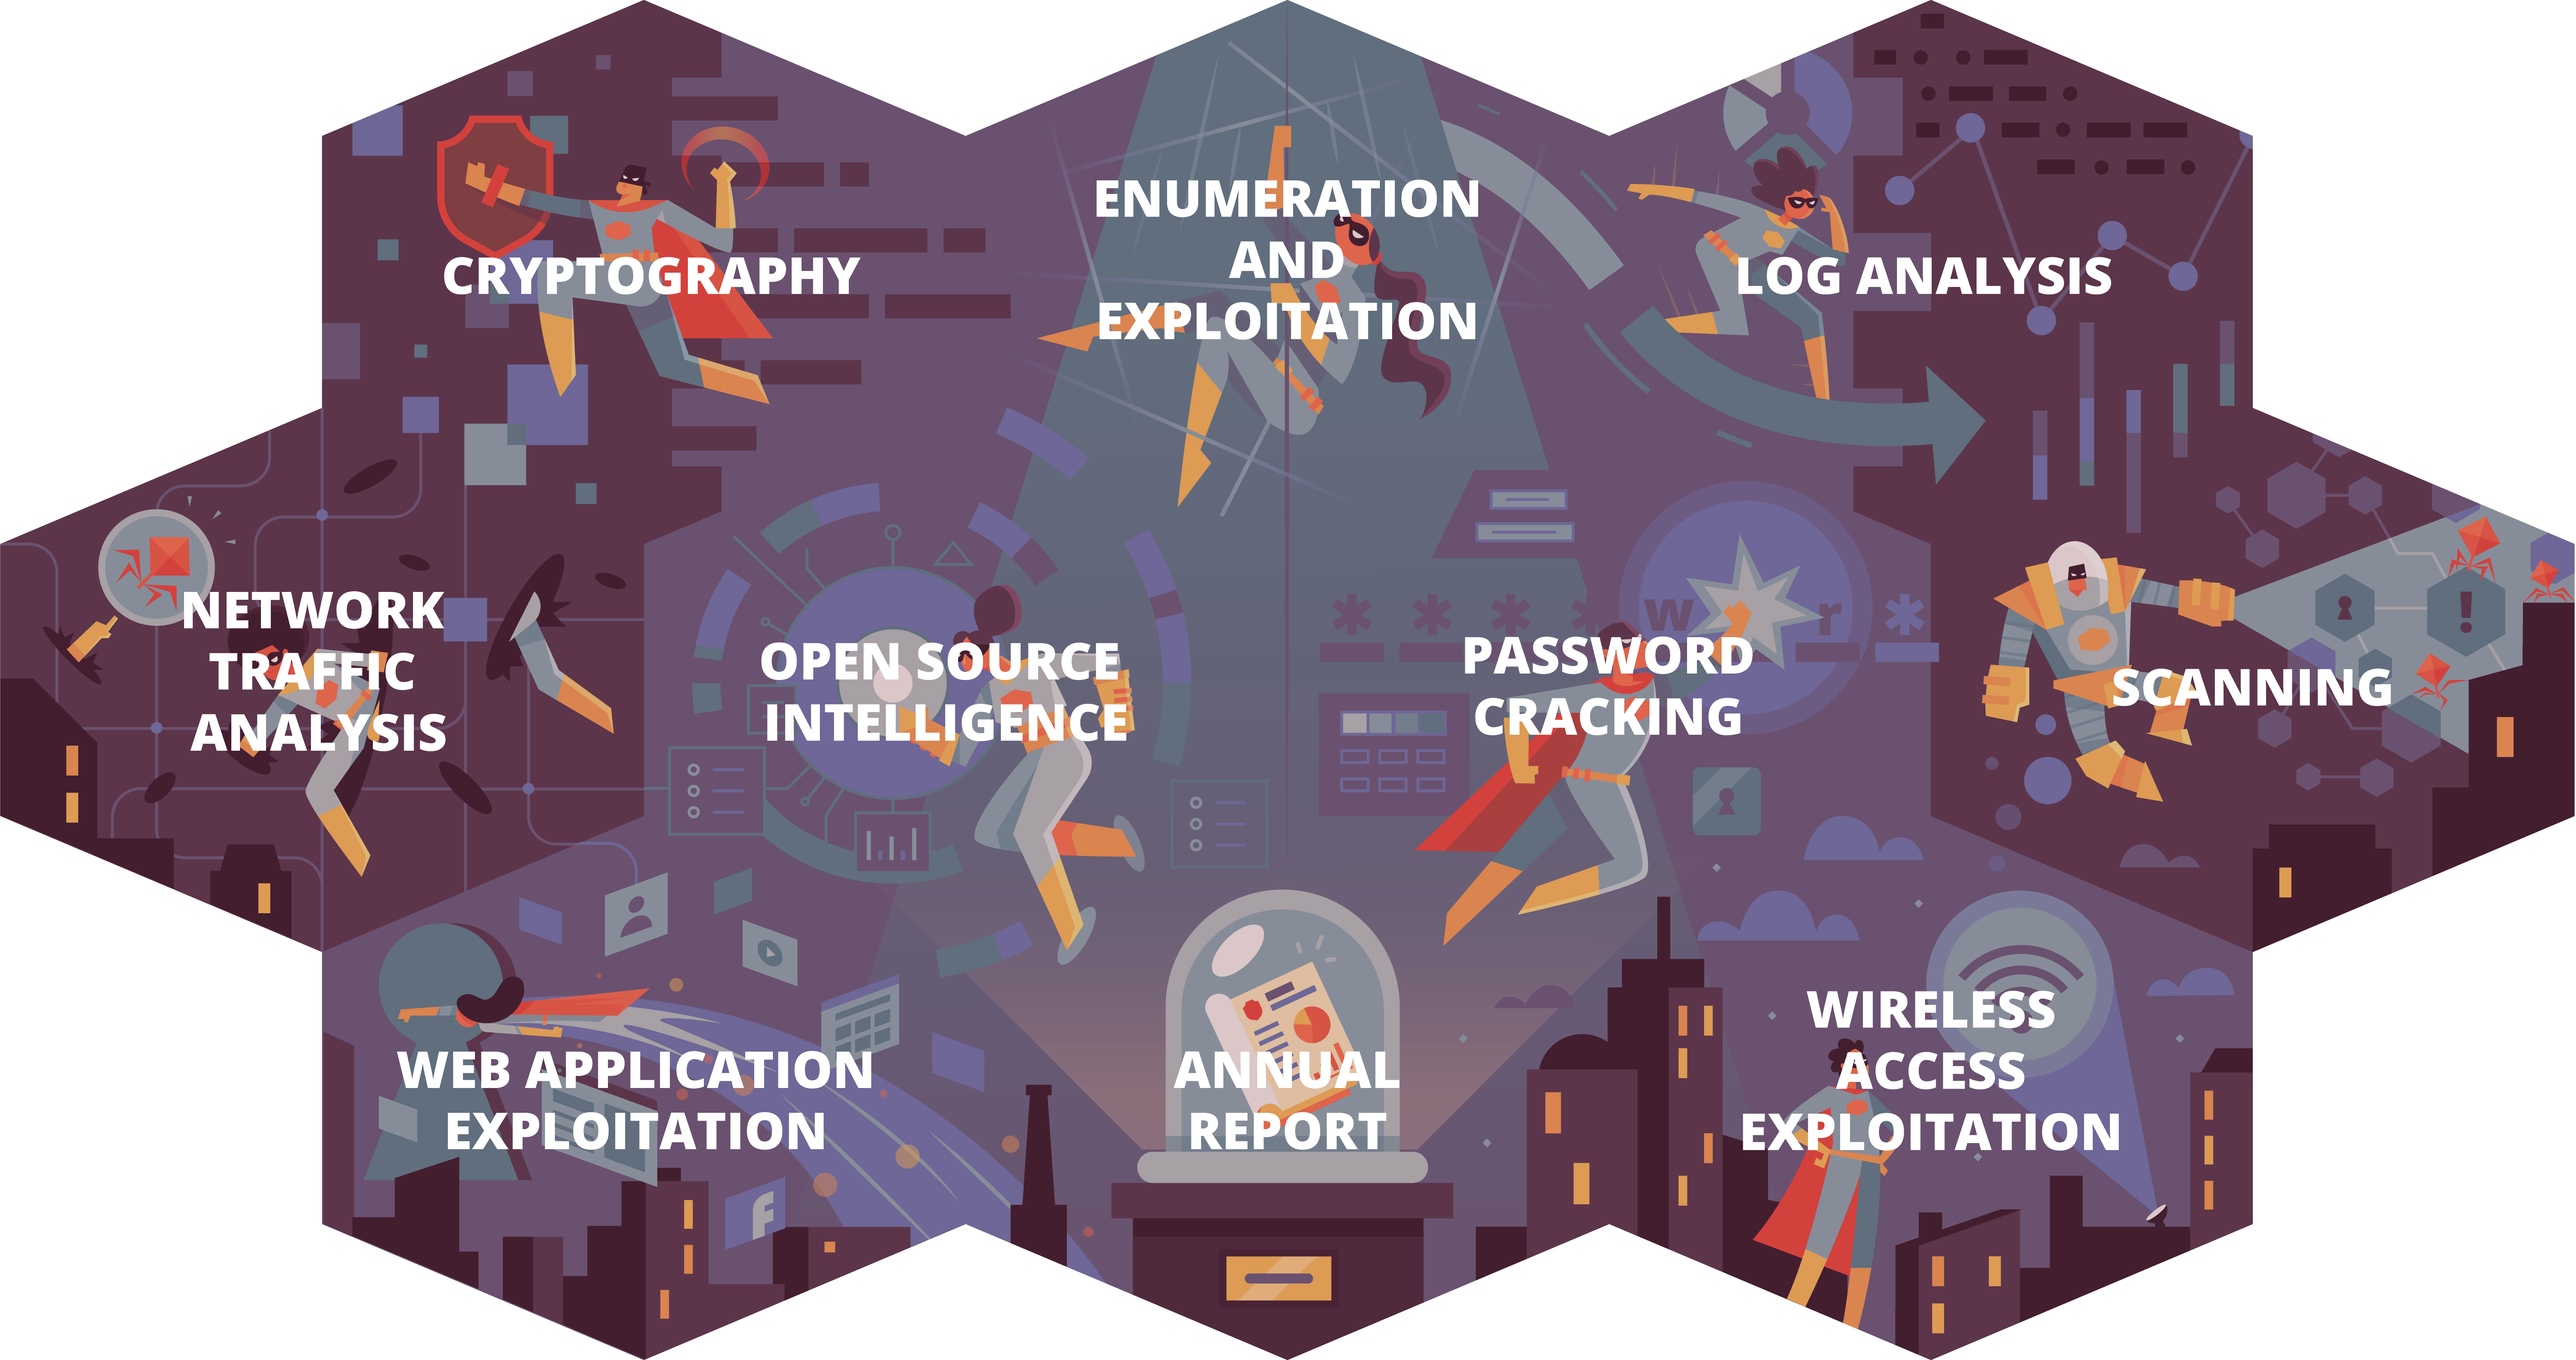
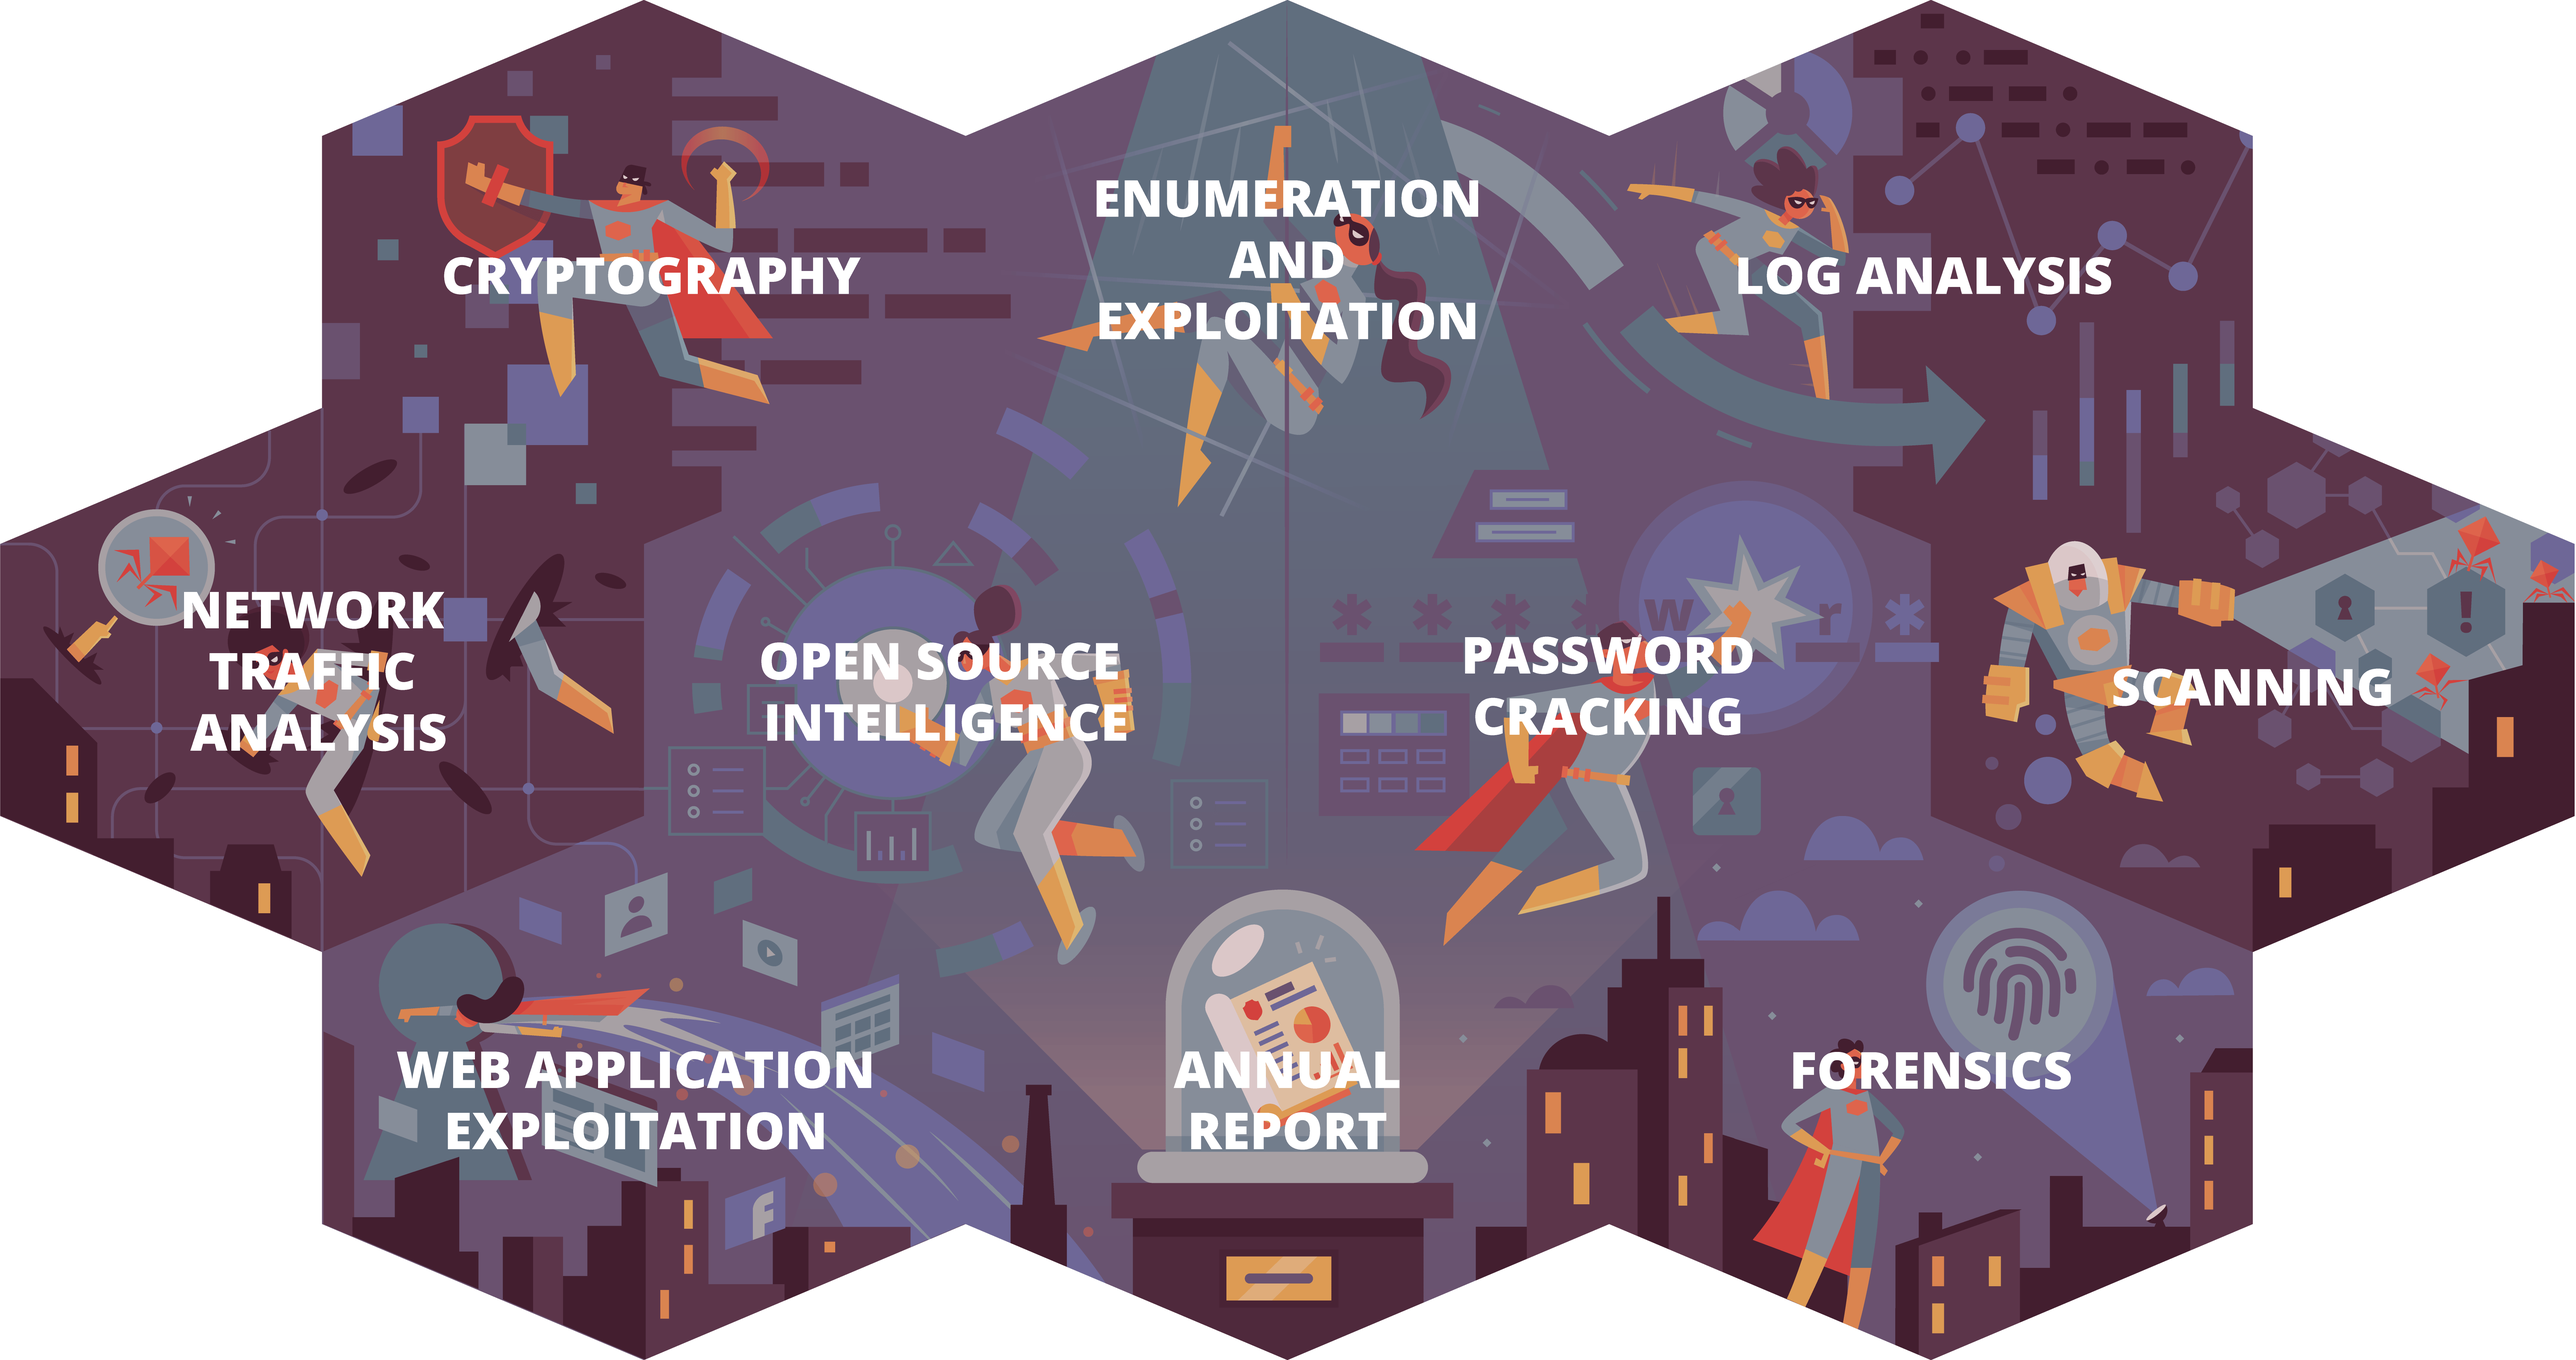
Update for Forensics

Changed region(s): [[0.6545, 0.6875, 0.8415, 0.8438]]

diff --git a/puzzle.html b/puzzle.html
@@ -60,7 +60,7 @@
               <image width="1326" height="1122" xlink:href="https://cyberskyline.github.io/NCL-Website/pieces/mobile-light-report.png" transform="matrix(.24 0 0 .24 159 1210)" overflow="visible"/>
             </g>
           </a>
-          <a id="wireless">
+          <a id="forensics">
             <defs>
               <path id="MOBILE_SVGID_7_" d="M636.3 1210.6v-134.5l-159.1-67.3-159.1 67.3v134.5l159.1 67.3z"/>
             </defs>
@@ -68,7 +68,7 @@
               <use xlink:href="#MOBILE_SVGID_7_" overflow="visible"/>
             </clipPath>
             <g clip-path="url(#MOBILE_SVGID_8_)">
-              <image width="1326" height="1122" xlink:href="https://cyberskyline.github.io/NCL-Website/pieces/mobile-light-wireless.png" transform="matrix(.24 0 0 .24 318.1 1008.7)" overflow="visible"/>
+              <image width="1326" height="1122" xlink:href="https://cyberskyline.github.io/NCL-Website/pieces/mobile-light-forensics.png" transform="matrix(.24 0 0 .24 318.1 1008.7)" overflow="visible"/>
             </g>
           </a>
           <a id="web">
@@ -220,7 +220,7 @@
               <image width="1893" height="1601" xlink:href="https://cyberskyline.github.io/NCL-Website/pieces/desktop-light-password.png" transform="matrix(.24 0 0 .24 907.8 287.9)" overflow="visible"/>
             </g>
           </a>
-          <a id="wireless">
+          <a id="forensics">
             <defs>
               <path id="DESKTOP_SVGID_13_" d="M1589 864V672l-227-96-227 96v192l227 96z"/>
             </defs>
@@ -228,7 +228,7 @@
               <use xlink:href="#DESKTOP_SVGID_13_" overflow="visible"/>
             </clipPath>
             <g clip-path="url(#DESKTOP_SVGID_14_)">
-              <image width="1892" height="1601" xlink:href="https://cyberskyline.github.io/NCL-Website/pieces/desktop-light-wireless.png" transform="matrix(.24 0 0 .24 1135 575.9)" overflow="visible"/>
+              <image width="1892" height="1601" xlink:href="https://cyberskyline.github.io/NCL-Website/pieces/desktop-light-forensics.png" transform="matrix(.24 0 0 .24 1135 575.9)" overflow="visible"/>
             </g>
           </a>
           <a id="web">
@@ -290,7 +290,7 @@
           { id : 'log', url : base + '/log-analysis' },
           { id : 'crypto', url : base + '/cryptography' },
           { id : 'password', url : base + '/password-cracking' },
-          { id : 'wireless', url : base + '/wireless-access-exploitation' },
+          { id : 'forensics', url : base + '/forensics' },
           { id : 'web', url : base + '/web-application-exploitation' },
           { id : 'scanning', url : base + '/scanning-and-reconnaissance' },
           { id : 'report', url : '/annual-report' },
